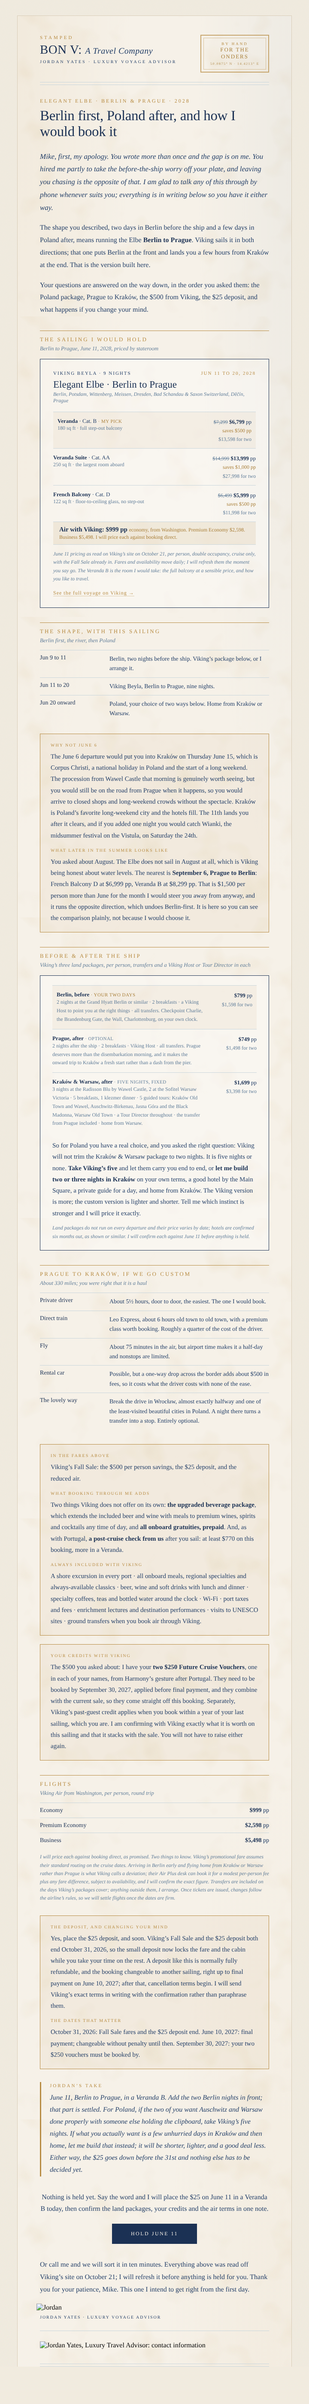
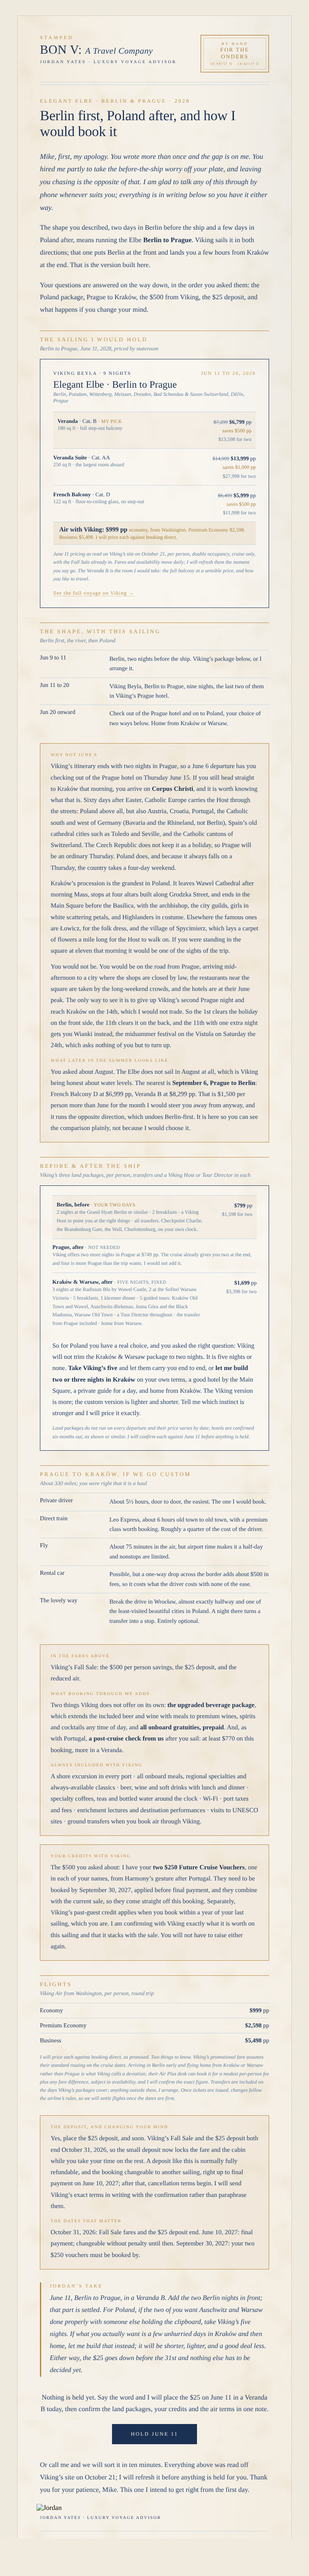
Onder Elbe quote: explain Corpus Christi, drop the Prague post-stay
Viking's itinerary already ends with two nights in Prague, so the June 6
note now walks through what Corpus Christi is, where it is kept, why
Kraków's procession is the one to see, and why a June 6 departure would
miss it anyway. The $749 Prague post-package becomes a one-line "not
needed" and the shape table names Viking's Prague nights.

Claude-Session: https://claude.ai/code/session_01WfjB5uQYEpnBZrtTfVBWKm

Changed region(s): [[0.1222, 0.0, 0.8861, 1.0]]

diff --git a/emails/onder-elbe-2028-berlin-prague.html b/emails/onder-elbe-2028-berlin-prague.html
@@ -90,16 +90,16 @@
 </td></tr>
 
 <tr><td class="pad" style="padding:34px 52px 0 52px"><div style="border-top:1px solid #b78b42;padding-top:12px"><p style="margin:0;font-family:Georgia,'Times New Roman',Times,serif;font-size:13px;letter-spacing:3px;text-transform:uppercase;color:#b78b42">The Shape, With This Sailing</p><p style="margin:5px 0 0 0;font-family:Georgia,'Times New Roman',Times,serif;font-size:13px;font-style:italic;color:#607d99">Berlin first, the river, then Poland</p></div></td></tr>
-<tr><td class="pad" style="padding:14px 52px 0 52px"><table role="presentation" width="100%" cellpadding="0" cellspacing="0" style="border-top:1px solid #c9d6dc"><tr><td style="padding:9px 12px 9px 0;border-bottom:1px solid #c9d6dc;font-family:Georgia,'Times New Roman',Times,serif;font-size:14px;color:#1b3154;width:150px;vertical-align:top">Jun 9 to 11</td><td style="padding:9px 0;border-bottom:1px solid #c9d6dc;font-family:Georgia,'Times New Roman',Times,serif;font-size:14px;line-height:1.6;color:#223e67">Berlin, two nights before the ship. Viking’s package below, or I arrange it.</td></tr><tr><td style="padding:9px 12px 9px 0;border-bottom:1px solid #c9d6dc;font-family:Georgia,'Times New Roman',Times,serif;font-size:14px;color:#1b3154;width:150px;vertical-align:top">Jun 11 to 20</td><td style="padding:9px 0;border-bottom:1px solid #c9d6dc;font-family:Georgia,'Times New Roman',Times,serif;font-size:14px;line-height:1.6;color:#223e67">Viking Beyla, Berlin to Prague, nine nights.</td></tr><tr><td style="padding:9px 12px 9px 0;font-family:Georgia,'Times New Roman',Times,serif;font-size:14px;color:#1b3154;width:150px;vertical-align:top">Jun 20 onward</td><td style="padding:9px 0;font-family:Georgia,'Times New Roman',Times,serif;font-size:14px;line-height:1.6;color:#223e67">Poland, your choice of two ways below. Home from Kraków or Warsaw.</td></tr></table></td></tr>
+<tr><td class="pad" style="padding:14px 52px 0 52px"><table role="presentation" width="100%" cellpadding="0" cellspacing="0" style="border-top:1px solid #c9d6dc"><tr><td style="padding:9px 12px 9px 0;border-bottom:1px solid #c9d6dc;font-family:Georgia,'Times New Roman',Times,serif;font-size:14px;color:#1b3154;width:150px;vertical-align:top">Jun 9 to 11</td><td style="padding:9px 0;border-bottom:1px solid #c9d6dc;font-family:Georgia,'Times New Roman',Times,serif;font-size:14px;line-height:1.6;color:#223e67">Berlin, two nights before the ship. Viking’s package below, or I arrange it.</td></tr><tr><td style="padding:9px 12px 9px 0;border-bottom:1px solid #c9d6dc;font-family:Georgia,'Times New Roman',Times,serif;font-size:14px;color:#1b3154;width:150px;vertical-align:top">Jun 11 to 20</td><td style="padding:9px 0;border-bottom:1px solid #c9d6dc;font-family:Georgia,'Times New Roman',Times,serif;font-size:14px;line-height:1.6;color:#223e67">Viking Beyla, Berlin to Prague, nine nights, the last two of them in Viking’s Prague hotel.</td></tr><tr><td style="padding:9px 12px 9px 0;font-family:Georgia,'Times New Roman',Times,serif;font-size:14px;color:#1b3154;width:150px;vertical-align:top">Jun 20 onward</td><td style="padding:9px 0;font-family:Georgia,'Times New Roman',Times,serif;font-size:14px;line-height:1.6;color:#223e67">Check out of the Prague hotel and on to Poland, your choice of two ways below. Home from Kraków or Warsaw.</td></tr></table></td></tr>
 
-<tr><td class="pad" style="padding:26px 52px 0 52px"><table role="presentation" width="100%" cellpadding="0" cellspacing="0" style="border:1px solid #b78b42;background-color:rgba(183,139,66,0.06)"><tr><td style="padding:20px 24px"><p style="margin:0;font-family:Georgia,'Times New Roman',Times,serif;font-size:10px;letter-spacing:2px;text-transform:uppercase;color:#b78b42">Why not June 6</p><p style="margin:8px 0 0 0;font-family:Georgia,'Times New Roman',Times,serif;font-size:15px;line-height:1.75;color:#223e67">The June 6 departure would put you into Kraków on Thursday June 15, which is Corpus Christi, a national holiday in Poland and the start of a long weekend. The procession from Wawel Castle that morning is genuinely worth seeing, but you would still be on the road from Prague when it happens, so you would arrive to closed shops and long-weekend crowds without the spectacle. Kraków is Poland’s favorite long-weekend city and the hotels fill. The 11th lands you after it clears, and if you added one night you would catch Wianki, the midsummer festival on the Vistula, on Saturday the 24th.</p><p style="margin:16px 0 0 0;font-family:Georgia,'Times New Roman',Times,serif;font-size:10px;letter-spacing:2px;text-transform:uppercase;color:#b78b42">What later in the summer looks like</p><p style="margin:8px 0 0 0;font-family:Georgia,'Times New Roman',Times,serif;font-size:15px;line-height:1.75;color:#223e67">You asked about August. The Elbe does not sail in August at all, which is Viking being honest about water levels. The nearest is <strong style="color:#1b3154">September 6, Prague to Berlin</strong>: French Balcony D at $6,999 pp, Veranda B at $8,299 pp. That is $1,500 per person more than June for the month I would steer you away from anyway, and it runs the opposite direction, which undoes Berlin-first. It is here so you can see the comparison plainly, not because I would choose it.</p></td></tr></table></td></tr>
+<tr><td class="pad" style="padding:26px 52px 0 52px"><table role="presentation" width="100%" cellpadding="0" cellspacing="0" style="border:1px solid #b78b42;background-color:rgba(183,139,66,0.06)"><tr><td style="padding:20px 24px"><p style="margin:0;font-family:Georgia,'Times New Roman',Times,serif;font-size:10px;letter-spacing:2px;text-transform:uppercase;color:#b78b42">Why not June 6</p><p style="margin:8px 0 0 0;font-family:Georgia,'Times New Roman',Times,serif;font-size:15px;line-height:1.75;color:#223e67">Viking’s itinerary ends with two nights in Prague, so a June 6 departure has you checking out of the Prague hotel on Thursday June 15. If you still head straight to Kraków that morning, you arrive on <strong style="color:#1b3154">Corpus Christi</strong>, and it is worth knowing what that is. Sixty days after Easter, Catholic Europe carries the Host through the streets: Poland above all, but also Austria, Croatia, Portugal, the Catholic south and west of Germany (Bavaria and the Rhineland, not Berlin), Spain’s old cathedral cities such as Toledo and Seville, and the Catholic cantons of Switzerland. The Czech Republic does not keep it as a holiday, so Prague will be an ordinary Thursday. Poland does, and because it always falls on a Thursday, the country takes a four-day weekend.</p><p style="margin:10px 0 0 0;font-family:Georgia,'Times New Roman',Times,serif;font-size:15px;line-height:1.75;color:#223e67">Kraków’s procession is the grandest in Poland. It leaves Wawel Cathedral after morning Mass, stops at four altars built along Grodzka Street, and ends in the Main Square before the Basilica, with the archbishop, the city guilds, girls in white scattering petals, and Highlanders in costume. Elsewhere the famous ones are Łowicz, for the folk dress, and the village of Spycimierz, which lays a carpet of flowers a mile long for the Host to walk on. If you were standing in the square at eleven that morning it would be one of the sights of the trip.</p><p style="margin:10px 0 0 0;font-family:Georgia,'Times New Roman',Times,serif;font-size:15px;line-height:1.75;color:#223e67">You would not be. You would be on the road from Prague, arriving mid-afternoon to a city where the shops are closed by law, the restaurants near the square are taken by the long-weekend crowds, and the hotels are at their June peak. The only way to see it is to give up Viking’s second Prague night and reach Kraków on the 14th, which I would not trade. So the 1st clears the holiday on the front side, the 11th clears it on the back, and the 11th with one extra night gets you Wianki instead, the midsummer festival on the Vistula on Saturday the 24th, which asks nothing of you but to turn up.</p><p style="margin:16px 0 0 0;font-family:Georgia,'Times New Roman',Times,serif;font-size:10px;letter-spacing:2px;text-transform:uppercase;color:#b78b42">What later in the summer looks like</p><p style="margin:8px 0 0 0;font-family:Georgia,'Times New Roman',Times,serif;font-size:15px;line-height:1.75;color:#223e67">You asked about August. The Elbe does not sail in August at all, which is Viking being honest about water levels. The nearest is <strong style="color:#1b3154">September 6, Prague to Berlin</strong>: French Balcony D at $6,999 pp, Veranda B at $8,299 pp. That is $1,500 per person more than June for the month I would steer you away from anyway, and it runs the opposite direction, which undoes Berlin-first. It is here so you can see the comparison plainly, not because I would choose it.</p></td></tr></table></td></tr>
 
 <tr><td class="pad" style="padding:34px 52px 0 52px"><div style="border-top:1px solid #b78b42;padding-top:12px"><p style="margin:0;font-family:Georgia,'Times New Roman',Times,serif;font-size:13px;letter-spacing:3px;text-transform:uppercase;color:#b78b42">Before &amp; After the Ship</p><p style="margin:5px 0 0 0;font-family:Georgia,'Times New Roman',Times,serif;font-size:13px;font-style:italic;color:#607d99">Viking’s three land packages, per person, transfers and a Viking Host or Tour Director in each</p></div></td></tr>
 
 <tr><td class="pad" style="padding:16px 52px 0 52px">
   <table role="presentation" width="100%" cellpadding="0" cellspacing="0" style="border:1px solid #1b3154;background-color:rgba(255,255,255,0.35)">
   <tr><td class="cardpad" style="padding:22px 28px">
-    <table role="presentation" width="100%" cellpadding="0" cellspacing="0" style="border-top:1px solid #c9d6dc"><tr><td style="padding:13px 0 12px 10px;border-bottom:1px solid #c9d6dc;background-color:rgba(183,139,66,0.07);font-family:Georgia,'Times New Roman',Times,serif;font-size:13px;color:#223e67;vertical-align:top"><strong style="color:#1b3154">Berlin, before</strong> <span style="color:#a97f39;font-size:11px;letter-spacing:0.5px;text-transform:uppercase">· your two days</span><br><span style="color:#607d99;font-size:12px;line-height:1.65">2 nights at the Grand Hyatt Berlin or similar · 2 breakfasts · a Viking Host to point you at the right things · all transfers. Checkpoint Charlie, the Brandenburg Gate, the Wall, Charlottenburg, on your own clock.</span></td><td align="right" style="padding:13px 10px 12px 12px;border-bottom:1px solid #c9d6dc;background-color:rgba(183,139,66,0.07);font-family:Georgia,'Times New Roman',Times,serif;font-size:13px;color:#223e67;vertical-align:top;line-height:1.55;width:100px;white-space:nowrap"><strong style="color:#1b3154">$799</strong> pp<br><span style="color:#607d99;font-size:12px">$1,598 for two</span></td></tr><tr><td style="padding:13px 0 12px 0;border-bottom:1px solid #c9d6dc;font-family:Georgia,'Times New Roman',Times,serif;font-size:13px;color:#223e67;vertical-align:top"><strong style="color:#1b3154">Prague, after</strong> <span style="color:#607d99;font-size:11px;letter-spacing:0.5px;text-transform:uppercase">· optional</span><br><span style="color:#607d99;font-size:12px;line-height:1.65">2 nights after the ship · 2 breakfasts · Viking Host · all transfers. Prague deserves more than the disembarkation morning, and it makes the onward trip to Kraków a fresh start rather than a dash from the pier.</span></td><td align="right" style="padding:13px 0 12px 12px;border-bottom:1px solid #c9d6dc;font-family:Georgia,'Times New Roman',Times,serif;font-size:13px;color:#223e67;vertical-align:top;line-height:1.55;width:100px;white-space:nowrap"><strong style="color:#1b3154">$749</strong> pp<br><span style="color:#607d99;font-size:12px">$1,498 for two</span></td></tr><tr><td style="padding:13px 0 12px 0;font-family:Georgia,'Times New Roman',Times,serif;font-size:13px;color:#223e67;vertical-align:top"><strong style="color:#1b3154">Kraków &amp; Warsaw, after</strong> <span style="color:#607d99;font-size:11px;letter-spacing:0.5px;text-transform:uppercase">· five nights, fixed</span><br><span style="color:#607d99;font-size:12px;line-height:1.65">3 nights at the Radisson Blu by Wawel Castle, 2 at the Sofitel Warsaw Victoria · 5 breakfasts, 1 klezmer dinner · 5 guided tours: Kraków Old Town and Wawel, Auschwitz-Birkenau, Jasna Góra and the Black Madonna, Warsaw Old Town · a Tour Director throughout · the transfer from Prague included · home from Warsaw.</span></td><td align="right" style="padding:13px 0 12px 12px;font-family:Georgia,'Times New Roman',Times,serif;font-size:13px;color:#223e67;vertical-align:top;line-height:1.55;width:100px;white-space:nowrap"><strong style="color:#1b3154">$1,699</strong> pp<br><span style="color:#607d99;font-size:12px">$3,398 for two</span></td></tr></table>
+    <table role="presentation" width="100%" cellpadding="0" cellspacing="0" style="border-top:1px solid #c9d6dc"><tr><td style="padding:13px 0 12px 10px;border-bottom:1px solid #c9d6dc;background-color:rgba(183,139,66,0.07);font-family:Georgia,'Times New Roman',Times,serif;font-size:13px;color:#223e67;vertical-align:top"><strong style="color:#1b3154">Berlin, before</strong> <span style="color:#a97f39;font-size:11px;letter-spacing:0.5px;text-transform:uppercase">· your two days</span><br><span style="color:#607d99;font-size:12px;line-height:1.65">2 nights at the Grand Hyatt Berlin or similar · 2 breakfasts · a Viking Host to point you at the right things · all transfers. Checkpoint Charlie, the Brandenburg Gate, the Wall, Charlottenburg, on your own clock.</span></td><td align="right" style="padding:13px 10px 12px 12px;border-bottom:1px solid #c9d6dc;background-color:rgba(183,139,66,0.07);font-family:Georgia,'Times New Roman',Times,serif;font-size:13px;color:#223e67;vertical-align:top;line-height:1.55;width:100px;white-space:nowrap"><strong style="color:#1b3154">$799</strong> pp<br><span style="color:#607d99;font-size:12px">$1,598 for two</span></td></tr><tr><td colspan="2" style="padding:11px 0 11px 0;border-bottom:1px solid #c9d6dc;font-family:Georgia,'Times New Roman',Times,serif;font-size:13px;color:#223e67;vertical-align:top"><strong style="color:#1b3154">Prague, after</strong> <span style="color:#607d99;font-size:11px;letter-spacing:0.5px;text-transform:uppercase">· not needed</span><br><span style="color:#607d99;font-size:12px;line-height:1.65">Viking offers two more nights in Prague at $749 pp. The cruise already gives you two at the end, and four is more Prague than the trip wants. I would not add it.</span></td></tr><tr><td style="padding:13px 0 12px 0;font-family:Georgia,'Times New Roman',Times,serif;font-size:13px;color:#223e67;vertical-align:top"><strong style="color:#1b3154">Kraków &amp; Warsaw, after</strong> <span style="color:#607d99;font-size:11px;letter-spacing:0.5px;text-transform:uppercase">· five nights, fixed</span><br><span style="color:#607d99;font-size:12px;line-height:1.65">3 nights at the Radisson Blu by Wawel Castle, 2 at the Sofitel Warsaw Victoria · 5 breakfasts, 1 klezmer dinner · 5 guided tours: Kraków Old Town and Wawel, Auschwitz-Birkenau, Jasna Góra and the Black Madonna, Warsaw Old Town · a Tour Director throughout · the transfer from Prague included · home from Warsaw.</span></td><td align="right" style="padding:13px 0 12px 12px;font-family:Georgia,'Times New Roman',Times,serif;font-size:13px;color:#223e67;vertical-align:top;line-height:1.55;width:100px;white-space:nowrap"><strong style="color:#1b3154">$1,699</strong> pp<br><span style="color:#607d99;font-size:12px">$3,398 for two</span></td></tr></table>
     <p style="margin:16px 0 0 0;font-family:Georgia,'Times New Roman',Times,serif;font-size:15px;line-height:1.75;color:#223e67">So for Poland you have a real choice, and you asked the right question: Viking will not trim the Kraków &amp; Warsaw package to two nights. It is five nights or none. <strong style="color:#1b3154">Take Viking’s five</strong> and let them carry you end to end, or <strong style="color:#1b3154">let me build two or three nights in Kraków</strong> on your own terms, a good hotel by the Main Square, a private guide for a day, and home from Kraków. The Viking version is more; the custom version is lighter and shorter. Tell me which instinct is stronger and I will price it exactly.</p>
     <p style="margin:12px 0 0 0;font-family:Georgia,'Times New Roman',Times,serif;font-size:12px;line-height:1.65;font-style:italic;color:#607d99">Land packages do not run on every departure and their price varies by date; hotels are confirmed six months out, as shown or similar. I will confirm each against June 11 before anything is held.</p>
   </td></tr>

diff --git a/emails/README.md b/emails/README.md
@@ -226,6 +226,8 @@ Caveat carried in the letter's fine print: Celebrity's figures include taxes and
 - Struck retail fares ($7,299 / $14,999 / $6,499) are derived from the Fall Sale savings in the Oct 7 quote; verify against Viking's "was" prices.
 - Confirm Explorer Society credit amount and that it stacks with the Fall Sale.
 - Confirm the Air Plus deviation fee (early Berlin arrival, home from Kraków/Warsaw).
-- Confirm whether Kraków & Warsaw can start from the pier or needs the Prague post-stay first.
+- Confirm whether Kraków & Warsaw can start from Viking's Prague hotel on day 10 (the letter now assumes it does).
+- Confirm how many Berlin hotel nights the cruise itself includes before boarding; the $799 Berlin pre-package sits on top of those.
+- Add the day-by-day itinerary and the Viking route map (assets.viking.com Elegant-Elbe-2025 2x1) once Jordan pastes Viking's day-by-day; this session's network policy blocks viking.com.
 
 **Results** — _pending send_
